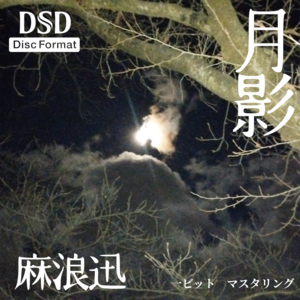
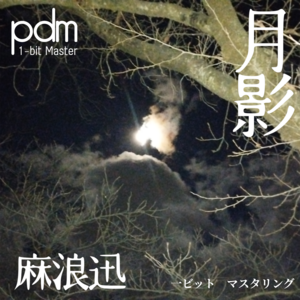
色々更新

Changed region(s): [[0.03, 0.03, 0.27, 0.21]]

diff --git a/content/games/rurh-1.md b/content/games/rurh-1.md
@@ -60,6 +60,10 @@ showActions: false
 ※IA-32系CPUでは動作しません。必ずAMD64/Intel64で動かして下さい。
 
 # 初回限定特典：主題歌CD
+初回限定盤には、主題歌「瑠璃空」「月影」2曲を収録したCDが付属予定！
+
+CDエクストラを採用し、FLAC（ロスレスPCM）とDSF（デルタシグマPDM）も付属。
+
 - 品番：RUCY-1
 - メディア：CD-EXTRA 12cm
 - 音声：リニアPCM 44.1kHz/16bit
